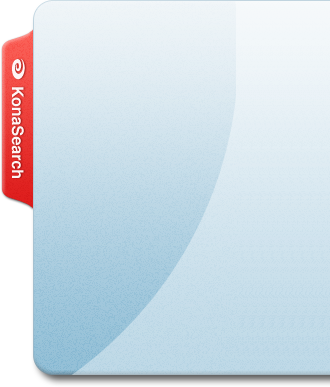
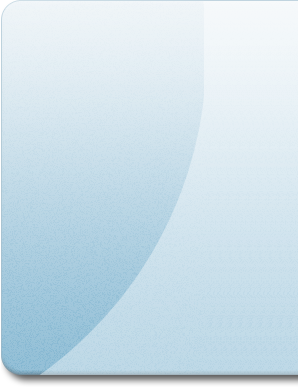
removed the tab from the design. added an html with the tab. removed watermark

Changed region(s): [[0.0, 0.0, 0.6946, 0.9922], [0.1208, 0.0, 0.151, 0.031]]

diff --git a/UI_Gadget/gadget-tab.html b/UI_Gadget/gadget-tab.html
@@ -1,0 +1,22 @@
+<!DOCTYPE HTML PUBLIC "-//W3C//DTD HTML 4.01 Transitional//EN" "http://www.w3.org/TR/html4/loose.dtd">
+<html>
+<head>
+<title>Kona DataSearch</title>
+<meta http-equiv="Content-Type" content="text/html; charset=UTF-8"/>
+<link rel="stylesheet" href="css/style.css" type="text/css" media="screen" charset="utf-8" />
+<link rel="stylesheet" href="css/tipTip.css" type="text/css" media="screen" charset="utf-8" />
+<script src="http://ajax.googleapis.com/ajax/libs/jquery/1.3.2/jquery.js" type="text/javascript"></script>
+<script type="text/javascript" src="scripts/functions.js"></script>
+<script type="text/javascript" src="scripts/jquery.tipTip.minified.js"></script>
+<script type="text/javascript" src="scripts/jquery.sb.min.js"></script>
+
+
+
+
+</head>
+<body>
+
+<div class="gadget-tab"></div>
+
+</body>
+</html>

diff --git a/UI_Gadget/index.html b/UI_Gadget/index.html
@@ -17,16 +17,14 @@
 <body>
 
 <!-- START KONASEARCH TAB -->
-
 <div id="slidemarginleft" class="slide">
-  <div id="inner" style="margin-left:223px">
-    <button></button>
+  <div id="inner">
     <div class="gadget-contract-btn"></div>
     <div class="gadget-content">
       <h1 class="gadget-title">KonaSearch</h1>
       <div class="gadget-search">
         <form>
-          <input type="text" value="Search Salesforce" class="textInput cleardefault" name="field">
+          <input type="text" class="textInput" name="field">
           <input type="submit" class="gadget-search-btn" value="Submit">
 		  
 		  <select class="filter-select" name="filter">

diff --git a/UI_Gadget/css/style.css b/UI_Gadget/css/style.css
@@ -20,7 +20,7 @@ body {
 	font-size:18px;
 }
 .gadget-content {
-	margin-left:53px;
+	margin-left:20px;
 	width:194px;
 	height:300px;
 	margin-top:13px;
@@ -159,7 +159,7 @@ td.namefield a:hover {
 	height: 23px;
 	position: absolute;
 	top:10px;
-	right:55px;
+	right:85px;
 	width: 22px;
 	cursor:pointer;
 }
@@ -188,6 +188,14 @@ td.namefield a:hover {
 	z-index: 1000;
 }
 */
+
+.gadget-tab {
+	background:url("../images/gadget-tab.png") no-repeat 0 0;
+	width: 33px;
+	height:186px;
+	cursor: pointer;
+}
+
 .slide #inner {
 	background:url("../images/BG-Gadget.png") no-repeat scroll 0 0 transparent;
 	

diff --git a/UI_Gadget/scripts/functions.js b/UI_Gadget/scripts/functions.js
@@ -1,6 +1,6 @@
 $(function(){
 
-watermark('.gadget-search input.textInput', 'field');
+//watermark('.gadget-search input.textInput', 'field');
 
 generate_tooltip('td.namefield');
 function generate_tooltip(selector){
@@ -18,7 +18,7 @@ dropdown_change_function()
 function dropdown_change_function() {
 	$("select.filter-select").change(function() { 
 		var field_value = $('div.gadget-search input.textInput').val()
-		if(field_value != 'Search Salesforce') {
+		if(field_value != '') {
 			alert("Insert filtered search function here...");
 		}
 	});
